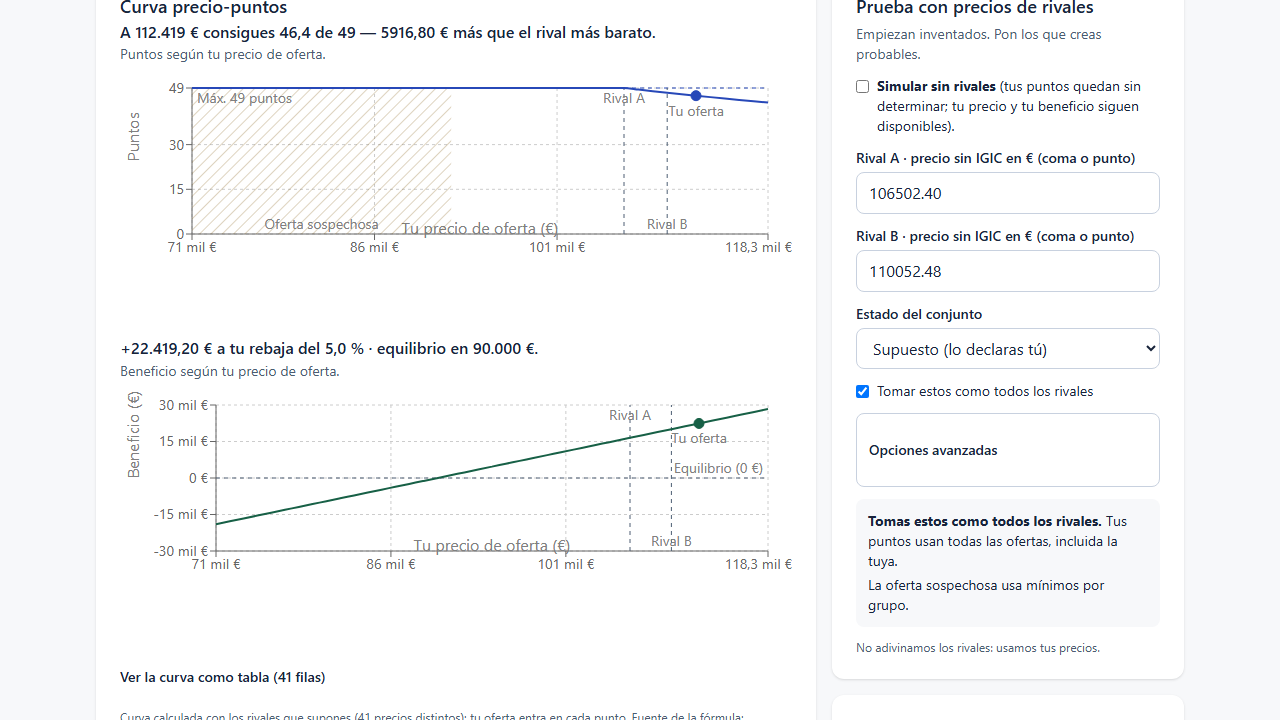
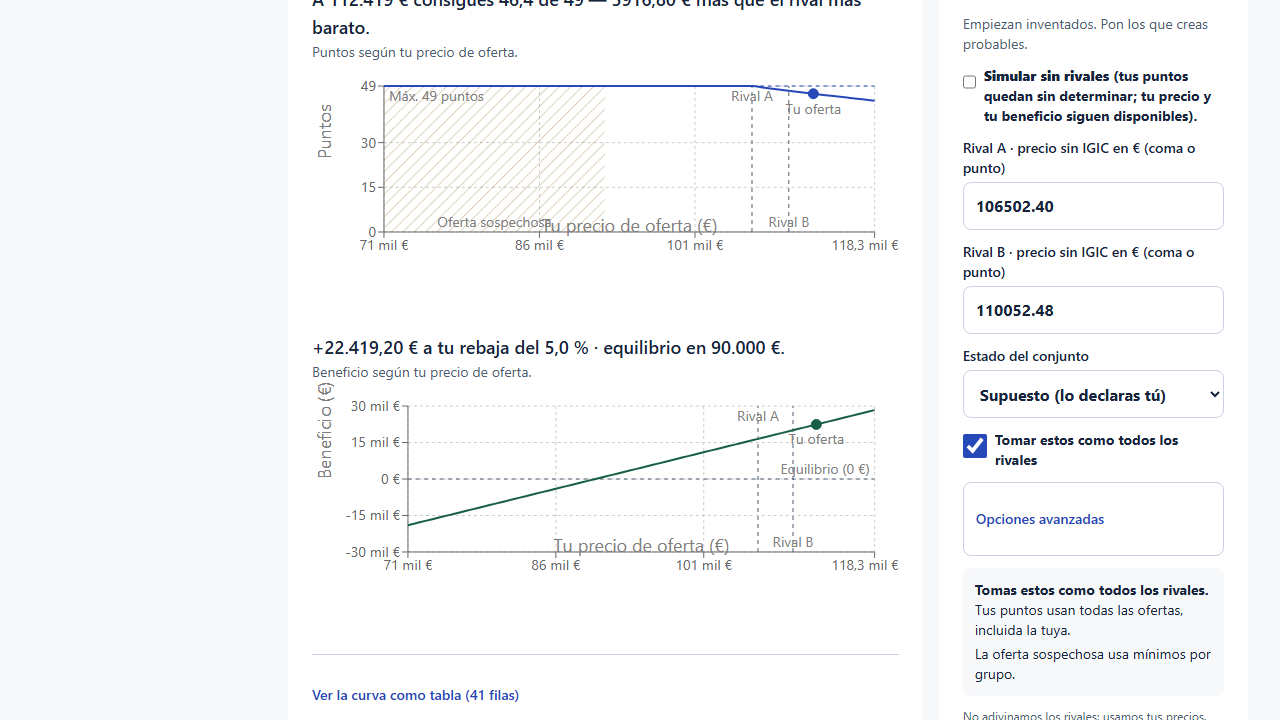
docs: regen demo shots 01-10 with ported UI + verification log

diff --git a/docs/verification-log.md b/docs/verification-log.md
@@ -1321,3 +1321,24 @@ inspeccionadas por lead y helper.
 Gates en main: shots 4/4 + E2E 72/72.
 Limpieza: uvicorn huérfano del helper B
 (PID 30976, ocupaba el 8000) detenido.
+
+## Visual-port - sistema Oficina en React (Windows, lead)
+
+Fecha: 2026-10-28. Commits: 3cd36a9 (base)
++ 29d1f74 (shell + lamina 01) + 4d328d0
+(marco 02-07) + 204f8b0 (precio) + 5262fa6
+(paneles + intake). Alcance: tokens/tipo
+exactos (root 16px, body 18px/1.55,
+D28-3), shell mock (skip/top/disclosure),
+biblioteca lamina 01, workhead + steps +
+base, precio twocol, h2/surfaces resto.
+Verificado vista por vista con captura
+propia vs mock (desktop + movil 390).
+Gates: E2E 72/72, backend 502+1skip,
+vitest 216, lint/build OK, detector diseno
+limpio, demo-shots 4/4 regen (docs/demo
+01-10). Testids/roles estables; tour y
+offline intactos. Desviaciones honestas:
+h2 Discount conserva text-lg (R06),
+tabs movil en fila scroll (no select),
+sin filtros/sort inventados.
